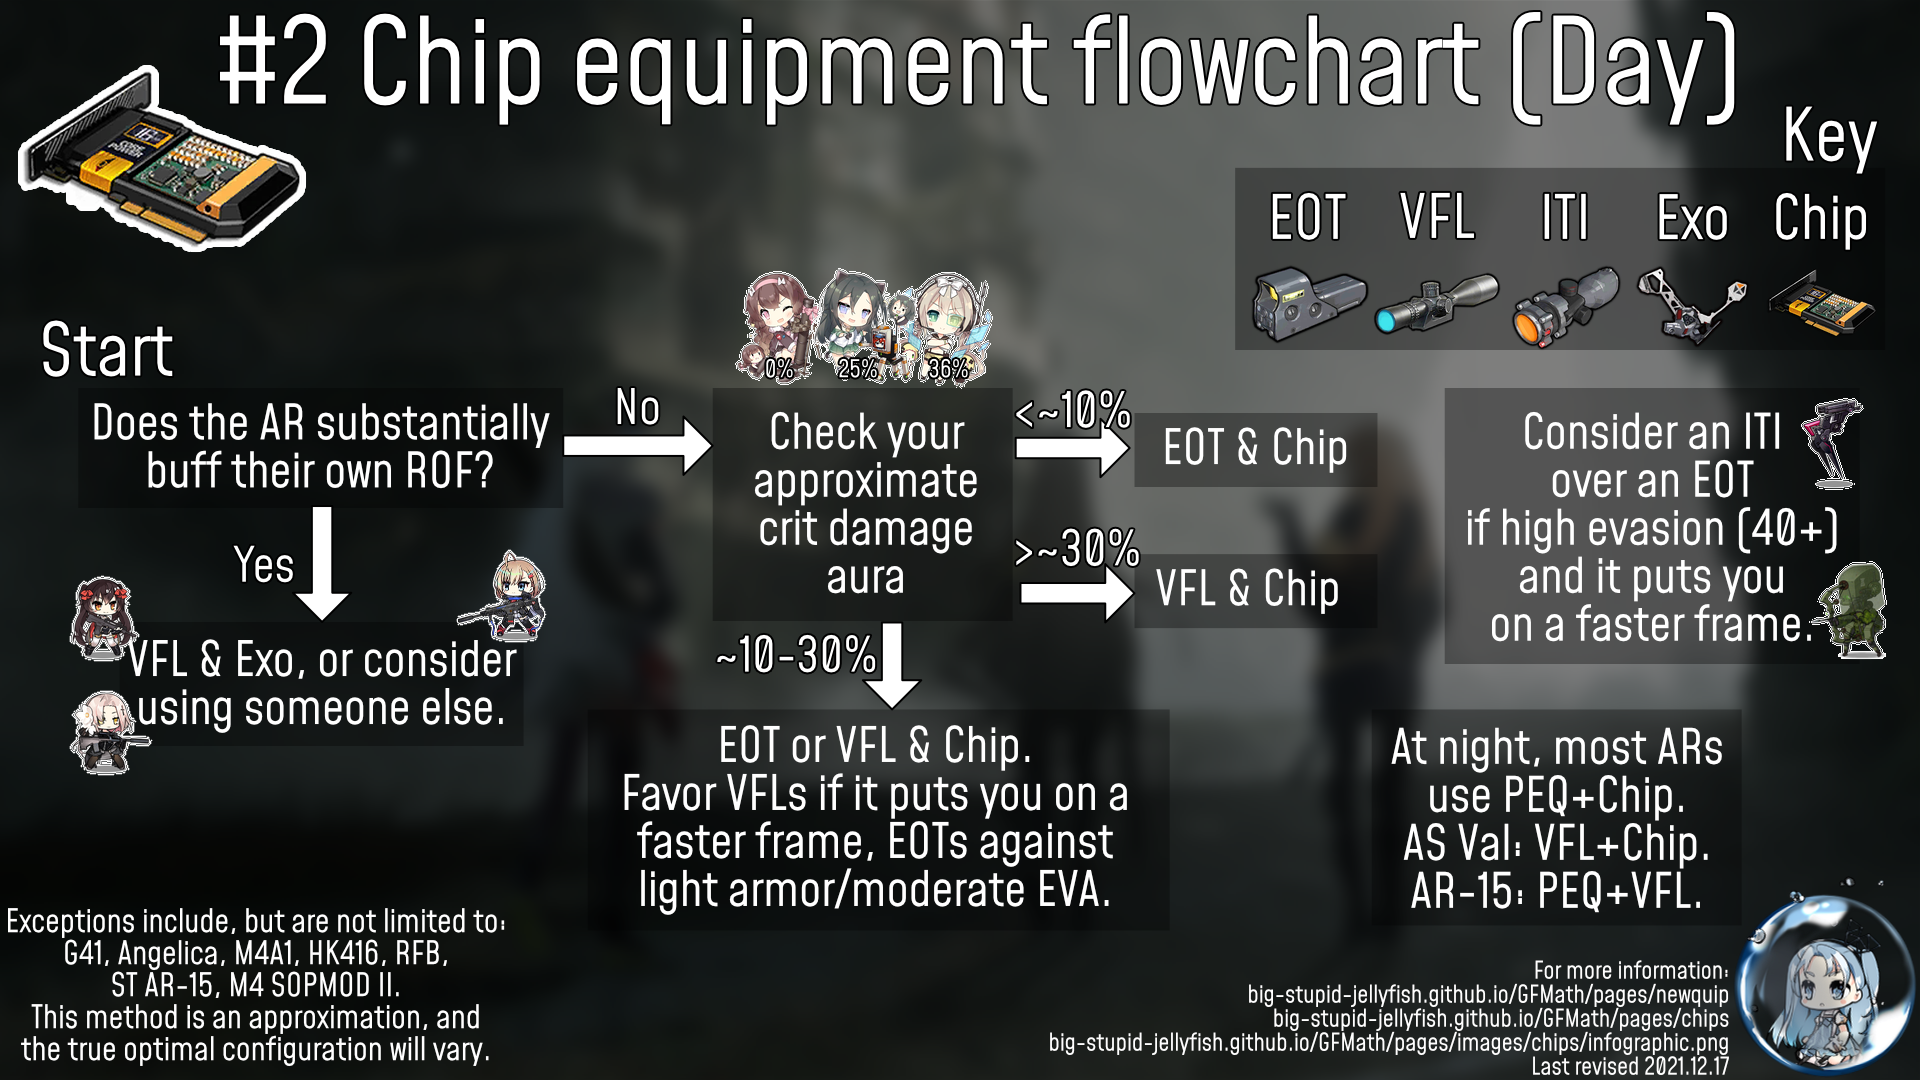
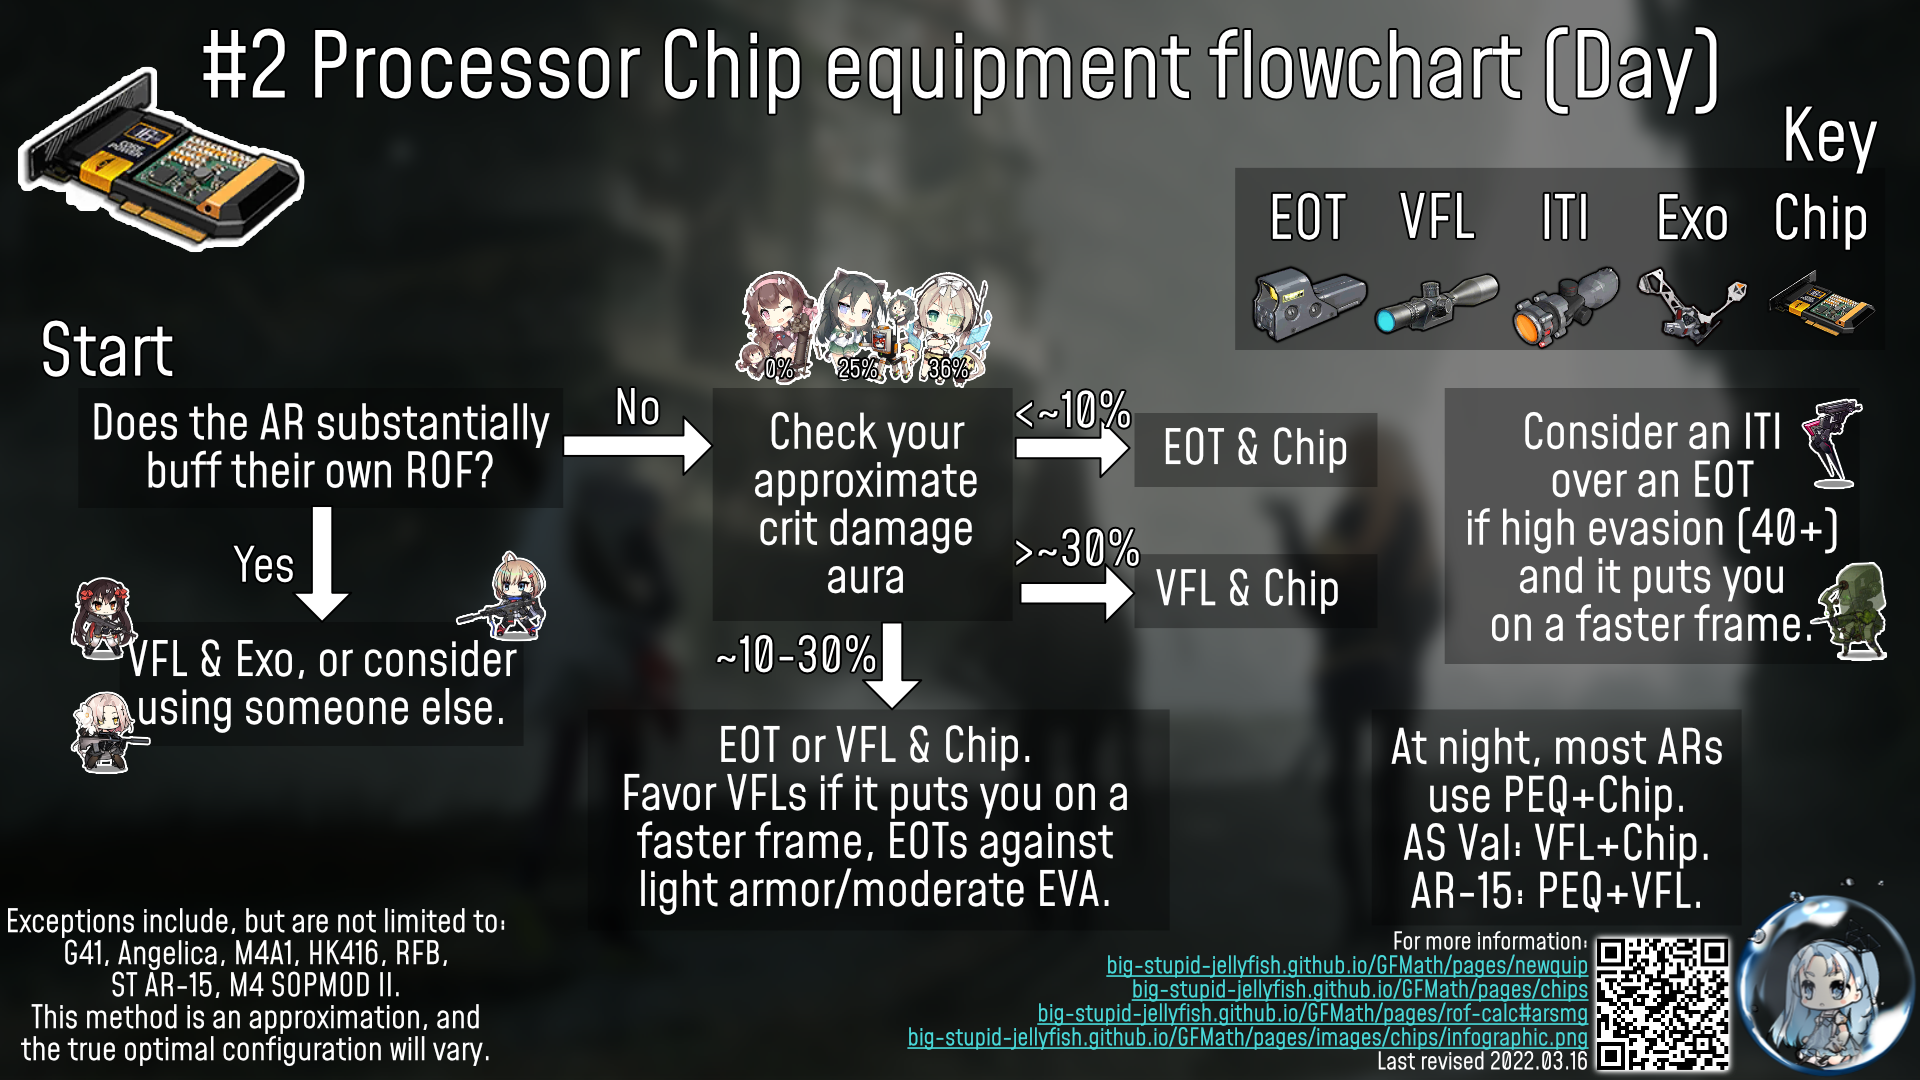
General improvements
index: improved tag text
core-rates: updated autobattle data
chip info: added rof calc link, added QR, blue links, better fairy outlines

diff --git a/index.html b/index.html
@@ -248,12 +248,12 @@ gtag('config', 'G-805N997DPC');
 </header>
 <div id="myBtnContainer">
 	<button class="btn active" onclick="filterSelection('all')"> Show all</button>
-	<button class="btn" onclick="filterSelection('gen')"> General info</button>
+	<button class="btn" onclick="filterSelection('gen')"> General</button>
 	<button class="btn" onclick="filterSelection('solo')"> Single doll</button>
 	<button class="btn" onclick="filterSelection('arsmg')"> ARSMG</button>
 	<button class="btn" onclick="filterSelection('rfhg')"> RFHG</button>
 	<button class="btn" onclick="filterSelection('mgsg')"> MGSG</button>
-	<button class="btn" onclick="filterSelection('calc')"> Calculator</button>
+	<button class="btn" onclick="filterSelection('calc')"> Calculators</button>
 </div>
 <!-- <p>Nullam et orci eu lorem consequat tincidunt vivamus et sagittis libero. Mauris aliquet magna magna sed nunc rhoncus pharetra. Pellentesque condimentum sem. In efficitur ligula tate urna. Maecenas laoreet massa vel lacinia pellentesque lorem ipsum dolor. Nullam et orci eu lorem consequat tincidunt. Vivamus et sagittis libero. Mauris aliquet magna magna sed nunc rhoncus amet pharetra et feugiat tempus.</p>
 <ul class="actions">

diff --git a/pages/core-rates.html b/pages/core-rates.html
@@ -285,24 +285,24 @@ It takes something like 2000-3000 cores to craft a 5★ Para, so there's always 
 </tr>
 <tr>
 <td>7-1</td>
-<td>0.49</td>
+<td>0.50</td>
 <td>0.46</td>
-<td>0.45</td>
-<td>126 runs</td>
+<td>0.46</td>
+<td>132 runs</td>
 </tr>
 <tr>
 <td>11-5</td>
-<td>1.20</td>
-<td>0.40</td>
-<td>0.50</td>
-<td>158 runs</td>
+<td>1.18</td>
+<td>0.39</td>
+<td>0.49</td>
+<td>185 runs</td>
 </tr>
 <tr>
 <td>13-6</td>
 <td>0.32</td>
 <td>0.15</td>
-<td>0.46</td>
-<td>145 runs</td>
+<td>0.45</td>
+<td>193 runs</td>
 </tr>
 <tr>
 <td>Wolf & Owl II EX (Isomer)</td>
